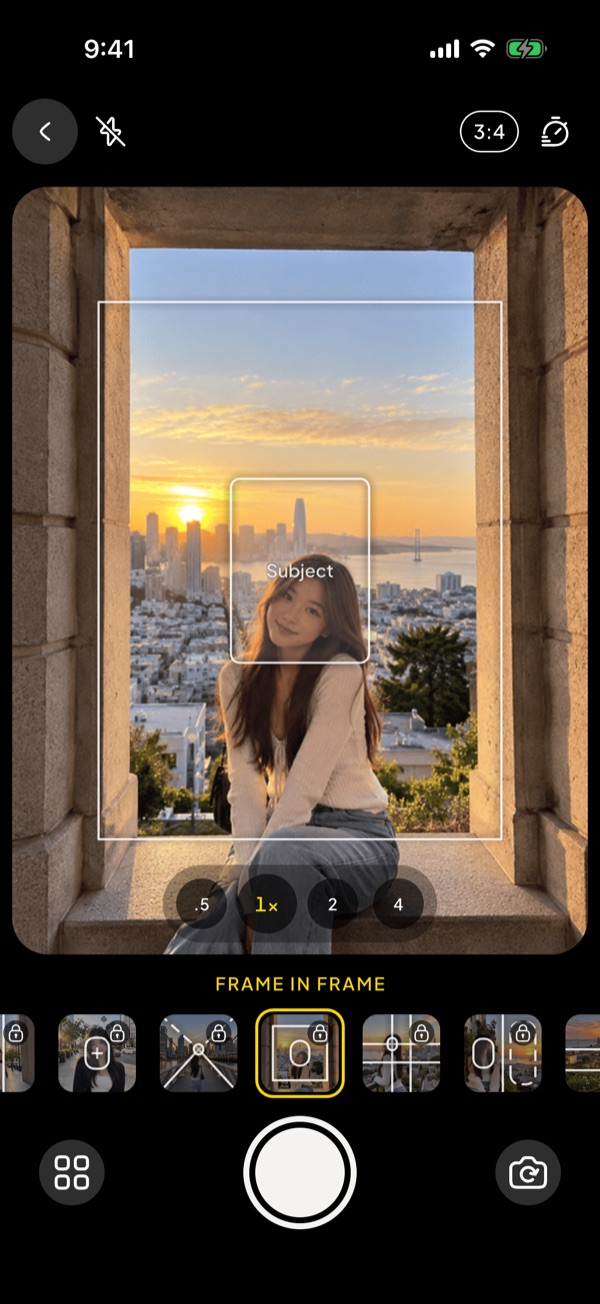
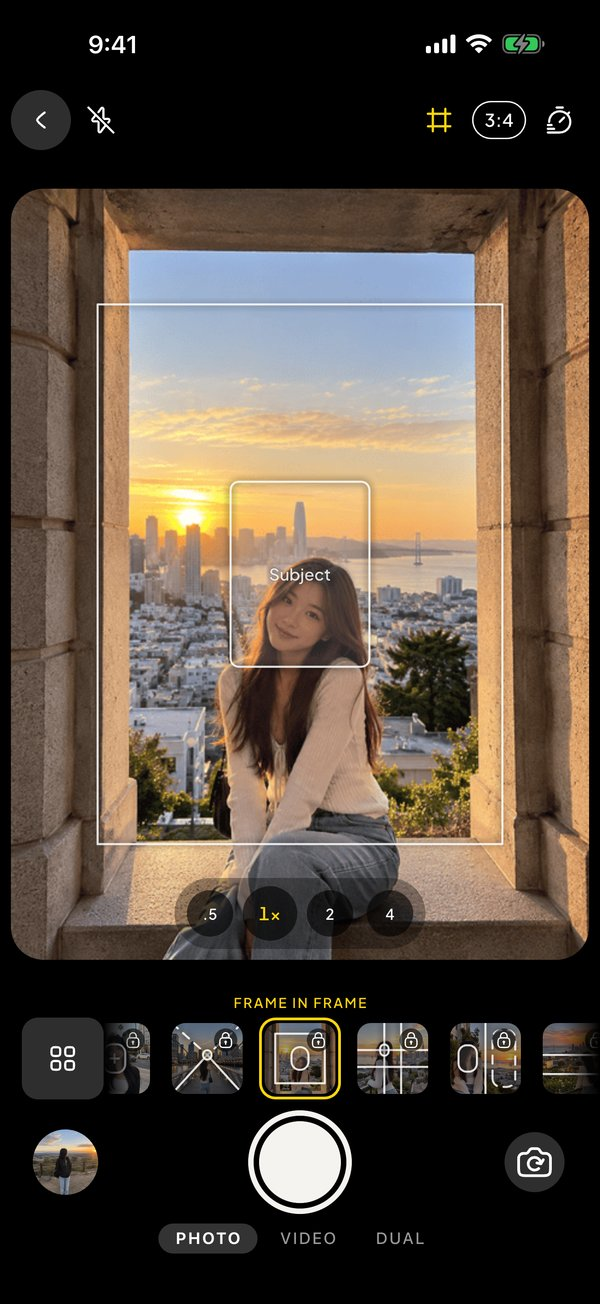
Update for 1.3: Dual, Concerts and Camping, video, library; new screenshots; privacy and terms

diff --git a/index.html b/index.html
@@ -6,8 +6,8 @@
 
   <!-- SEO. Replace https://www.beginnercam.com/ everywhere (see README.md). -->
   <title>Beginner Cam – Composition Camera: Take Better Photos Today</title>
-  <meta name="description" content="Beginner Cam is a free camera app for iPhone and Android that teaches composition. Pick what you shoot, follow a live guide like the rule of thirds, add a film-inspired look, and take photos you're proud of.">
-  <meta name="keywords" content="composition camera, rule of thirds app, photography for beginners, iPhone camera app, Android camera app, photo composition guide, golden ratio camera, better photos">
+  <meta name="description" content="Beginner Cam is a free camera app for iPhone and Android that teaches composition. Pick what you shoot, follow a live guide like the rule of thirds, add a film-inspired look, and film video or Dual with both cameras at once.">
+  <meta name="keywords" content="composition camera, rule of thirds app, photography for beginners, iPhone camera app, Android camera app, photo composition guide, golden ratio camera, better photos, dual camera video, concert photos">
   <link rel="canonical" href="https://www.beginnercam.com/">
   <meta name="robots" content="index, follow">
   <meta name="theme-color" content="#ffffff">
@@ -46,7 +46,7 @@
     "name": "Beginner Cam – Composition Camera",
     "operatingSystem": "Android 8.0 or later, iOS 16 or later",
     "applicationCategory": "PhotographyApplication",
-    "description": "A free camera app for Android and iPhone that teaches composition with live guides and film-inspired looks.",
+    "description": "A free camera app for Android and iPhone that teaches composition with live guides and film-inspired looks, with video and Dual (both cameras at once).",
     "url": "https://www.beginnercam.com/",
     "image": "https://www.beginnercam.com/assets/og-image.jpg",
     "downloadUrl": "https://play.google.com/store/apps/details?id=com.reach.beginnercamera",
@@ -59,11 +59,13 @@
     "@type": "FAQPage",
     "mainEntity": [
       { "@type": "Question", "name": "Is Beginner Cam free?",
-        "acceptedAnswer": { "@type": "Answer", "text": "Yes. Every subject comes with free guides and looks. You can also try every Pro guide and look for free; one payment unlocks saving and sharing those photos. There is no subscription." } },
+        "acceptedAnswer": { "@type": "Answer", "text": "Yes. Every subject comes with free guides and looks, and photo and video are free. You can try every Pro guide, look and Dual for free; one payment unlocks saving and sharing those shots and removes the small Beginner Cam mark from your photos. There is no subscription." } },
+      { "@type": "Question", "name": "Can I film video?",
+        "acceptedAnswer": { "@type": "Answer", "text": "Yes. Switch to Video and film with the same guides and looks, then trim, crop, change the look or mute the clip. Dual films with the back and front cameras at the same time, so you get the stage and your own face in one video or photo." } },
       { "@type": "Question", "name": "Do I need any photography experience?",
         "acceptedAnswer": { "@type": "Answer", "text": "No. Beginner Cam was made for people who are just starting. Pick what you are shooting, line your subject up with the guide, and press the shutter." } },
       { "@type": "Question", "name": "Does Beginner Cam upload my photos?",
-        "acceptedAnswer": { "@type": "Answer", "text": "No. There is no account and no upload. Your photos stay on your phone, and the guide lines are never saved into them." } },
+        "acceptedAnswer": { "@type": "Answer", "text": "No. There is no account and no upload. Your photos and videos stay on your phone, and the guide lines are never saved into them." } },
       { "@type": "Question", "name": "Which phones are supported?",
         "acceptedAnswer": { "@type": "Answer", "text": "Android phones running Android 8.0 or later, through Google Play, and iPhones running iOS 16 or later once the App Store version is out." } },
       { "@type": "Question", "name": "Is there an Android version?",
@@ -134,7 +136,7 @@
             </a>
           </div>
           <ul class="hero__facts reveal" aria-label="Highlights">
-            <li><strong>90</strong> example photos</li>
+            <li><strong>120</strong> example photos</li>
             <li><strong>30</strong> composition guides</li>
             <li><strong>20</strong> film-inspired looks</li>
           </ul>
@@ -170,10 +172,10 @@
         </header>
         <ol class="steps">
           <li class="step reveal">
-            <div class="phone phone--small"><img src="assets/screens/quiz.jpg" alt="Choosing what you love to shoot: people, food, scenery, city, pets, cafes" width="600" height="1304" loading="lazy"></div>
+            <div class="phone phone--small"><img src="assets/screens/quiz.jpg" alt="Choosing what you love to shoot" width="600" height="1304" loading="lazy"></div>
             <span class="step__num">1</span>
             <h3>Pick what you shoot</h3>
-            <p>People, food, scenery, city, pets or cafes. Each comes with its own 15 guides and example photos, easiest first.</p>
+            <p>People, food, scenery, city, pets, cafes, concerts or camping. Each comes with its own 15 guides and example photos, easiest first.</p>
           </li>
           <li class="step reveal">
             <div class="phone phone--small"><img src="assets/screens/camera.jpg" alt="The camera with a live composition guide" width="600" height="1304" loading="lazy"></div>
@@ -201,8 +203,8 @@
         <div class="features">
           <article class="feature reveal">
             <div class="feature__icon" aria-hidden="true"><svg viewBox="0 0 24 24"><rect x="3" y="4" width="18" height="16" rx="2"/><circle cx="8.5" cy="9.5" r="1.5"/><path d="M21 16l-5-5-9 9"/></svg></div>
-            <h3>90 example photos</h3>
-            <p>Every guide is shown on a real photo of what you shoot: people, food, scenery, city, pets or cafes. See the result before you take the shot.</p>
+            <h3>120 example photos</h3>
+            <p>Every guide is shown on a photo of what you shoot: people, food, scenery, city, pets, cafes, concerts or camping. See the result before you take the shot.</p>
           </article>
           <article class="feature reveal">
             <div class="feature__icon" aria-hidden="true"><svg viewBox="0 0 24 24"><path d="M8 3v18M16 3v18M3 8h18M3 16h18"/></svg></div>
@@ -222,7 +224,22 @@
           <article class="feature reveal">
             <div class="feature__icon" aria-hidden="true"><svg viewBox="0 0 24 24"><path d="M4 7h3l2-3h6l2 3h3v12H4z"/><circle cx="12" cy="13" r="3.5"/></svg></div>
             <h3>Feels like your phone's camera</h3>
-            <p>Lens buttons, tap to focus, drag for brightness, flash and timer, right where you expect them.</p>
+            <p>Lens buttons, tap to focus, drag for brightness, flash and timer, right where you expect them. Turn the phone sideways and the guide turns with it.</p>
+          </article>
+          <article class="feature reveal">
+            <div class="feature__icon" aria-hidden="true"><svg viewBox="0 0 24 24"><rect x="2.5" y="6" width="13" height="12" rx="2"/><path d="M15.5 10.5l6-3.5v10l-6-3.5"/></svg></div>
+            <h3>Video and Dual</h3>
+            <p>Film with the same guides and looks. Dual uses the back and front cameras at once: the stage and your face in one video or photo, in a small window or split screen.</p>
+          </article>
+          <article class="feature reveal">
+            <div class="feature__icon" aria-hidden="true"><svg viewBox="0 0 24 24"><rect x="3" y="3" width="7" height="7" rx="1.5"/><rect x="14" y="3" width="7" height="7" rx="1.5"/><rect x="3" y="14" width="7" height="7" rx="1.5"/><rect x="14" y="14" width="7" height="7" rx="1.5"/></svg></div>
+            <h3>Your own photo library</h3>
+            <p>Every shot is kept in the app, grouped by day. Change the look, crop, rotate or straighten anytime; your original never changes.</p>
+          </article>
+          <article class="feature reveal">
+            <div class="feature__icon" aria-hidden="true"><svg viewBox="0 0 24 24"><path d="M13 2L4 14h7l-1 8 9-12h-7z"/></svg></div>
+            <h3>Made for quick shots</h3>
+            <p>Hide the guide lines with one tap, open a QR code's link, or start the camera from your iPhone's Lock Screen.</p>
           </article>
           <article class="feature reveal">
             <div class="feature__icon" aria-hidden="true"><svg viewBox="0 0 24 24"><path d="M12 3l7 3v5c0 5-3.5 8.5-7 10-3.5-1.5-7-5-7-10V6z"/><path d="M9 12l2 2 4-4"/></svg></div>
@@ -243,7 +260,7 @@
       </div>
       <div class="gallery" tabindex="0" aria-label="App screenshots, scroll sideways">
         <figure class="gallery__item">
-          <div class="phone"><img src="assets/screens/home.jpg" alt="Home screen with six subjects" width="600" height="1304" loading="lazy"></div>
+          <div class="phone"><img src="assets/screens/home.jpg" alt="Home screen with the subjects to choose from" width="600" height="1304" loading="lazy"></div>
           <figcaption>Tell it what you shoot</figcaption>
         </figure>
         <figure class="gallery__item">
@@ -257,6 +274,10 @@
         <figure class="gallery__item">
           <div class="phone"><img src="assets/screens/result.jpg" alt="Before and after with your look" width="600" height="1304" loading="lazy"></div>
           <figcaption>See the difference</figcaption>
+        </figure>
+        <figure class="gallery__item">
+          <div class="phone"><img src="assets/screens/dual.jpg" alt="Dual at a concert: the stage fills the screen, with a small window of the person filming" width="600" height="1304" loading="lazy"></div>
+          <figcaption>You and the moment</figcaption>
         </figure>
       </div>
       <div class="container gallery__nav">
@@ -275,7 +296,11 @@
         <div class="faq">
           <details class="reveal">
             <summary>Is Beginner Cam free?</summary>
-            <p>Yes. Every subject comes with free guides and looks. You can also try every Pro guide and look for free; one payment unlocks saving and sharing those photos. There is no subscription.</p>
+            <p>Yes. Every subject comes with free guides and looks, and photo and video are free. You can try every Pro guide, look and Dual for free; one payment unlocks saving and sharing those shots and removes the small Beginner Cam mark from your photos. There is no subscription.</p>
+          </details>
+          <details class="reveal">
+            <summary>Can I film video?</summary>
+            <p>Yes. Switch to Video and film with the same guides and looks, then trim, crop, change the look or mute the clip. Dual films with the back and front cameras at the same time, so you get the stage and your own face in one video or photo.</p>
           </details>
           <details class="reveal">
             <summary>Do I need any photography experience?</summary>
@@ -283,7 +308,7 @@
           </details>
           <details class="reveal">
             <summary>Does Beginner Cam upload my photos?</summary>
-            <p>No. There is no account and no upload. Your photos stay on your phone, and the guide lines are never saved into them.</p>
+            <p>No. There is no account and no upload. Your photos and videos stay on your phone, and the guide lines are never saved into them.</p>
           </details>
           <details class="reveal">
             <summary>Which phones are supported?</summary>

diff --git a/privacy.html b/privacy.html
@@ -23,7 +23,7 @@
   </header>
   <main class="legal container container--narrow">
     <h1>Privacy Policy</h1>
-    <p class="updated">Effective October 31, 2026</p>
+    <p class="updated">Effective November 5, 2026</p>
 
     <p>This policy explains how the Beginner Cam app for iPhone and Android ("Beginner Cam", "the app") and this website handle information. Beginner Cam is developed and published by Sopheareach Te ("we", "us"), who is responsible for your information under this policy.</p>
 
@@ -34,7 +34,7 @@
       <li>We do not ask for your name, email address, phone number or any account.</li>
       <li>We do not upload, view or store your photos on any server.</li>
       <li>We do not use advertising identifiers (Apple's IDFA or Google's Advertising ID), track you across other apps or websites, or show ads.</li>
-      <li>We do not collect your location. Location data is removed from photos the app saves.</li>
+      <li>We do not collect your location. Location data is removed from photos the app saves, and saved videos carry no location.</li>
       <li>We do not collect contacts, browsing history, health, financial or other sensitive information.</li>
       <li>The app does not send usage analytics or crash reports to us or to any analytics service.</li>
     </ul>
@@ -42,15 +42,16 @@
     <h2>Permissions</h2>
     <p>The app asks for each permission only when you first use the feature that needs it. You can say no, or change your mind later in your phone's settings.</p>
     <ul>
-      <li><strong>Camera:</strong> used only to show the live preview and take photos inside the app.</li>
-      <li><strong>Photos / media:</strong> used only to save your photos to your photo library or gallery. On iPhone the app asks for "add only" access and cannot read or browse your existing photos. On Android it saves new photos to your gallery and does not read your existing ones.</li>
-      <li><strong>Notifications (optional):</strong> asked only after you save your first photo. Reminders are scheduled on your phone; nothing is sent from a server. You can turn them off in the app's Settings or in your phone's settings.</li>
+      <li><strong>Camera:</strong> used only to show the live preview and take photos and videos inside the app.</li>
+      <li><strong>Microphone:</strong> used only to record sound with your videos, including Dual. You can say no and still record videos without sound.</li>
+      <li><strong>Photos / media:</strong> used only to save your photos to your photo library or gallery. On iPhone the app asks for "add only" access and cannot read or browse your existing photos. On Android it saves new photos and videos to your gallery and does not read your existing ones. If you add photos from your library (a Pro feature), you choose them in the system's photo picker, and the app receives only the ones you pick.</li>
+      <li><strong>Notifications (optional):</strong> asked once after the short demo when you first open the app, and, if you choose Not now, once more after you save your first photo. Reminders are scheduled on your phone; nothing is sent from a server. You can turn them off in the app's Settings or in your phone's settings.</li>
     </ul>
 
     <h2>Information stored on your phone</h2>
     <ul>
       <li>Your onboarding answers (what you shoot, your vibe, where you post, your level) and your settings, such as language, appearance and notification preferences.</li>
-      <li>Photos waiting in the Held tray, kept inside the app until you save or delete them, or delete the app.</li>
+      <li>The photos and videos you take, with your edits (look, crop, rotation, trim), kept in the app's own library until you delete them or delete the app.</li>
       <li>The start times of the welcome and limited-time offers, so an offer is not restarted. These are dates and times only.</li>
     </ul>
     <p>This information stays on your device and is never sent to us. To keep offers from restarting after a reinstall, the offer start times are also kept in your iPhone's Keychain and your own iCloud key-value storage on iPhone, or in your Google Android backup on Android if you have backup turned on. They contain no personal information. iCloud is handled under <a href="https://www.apple.com/legal/privacy/" rel="noopener">Apple's Privacy Policy</a> and Android backup under <a href="https://policies.google.com/privacy" rel="noopener">Google's Privacy Policy</a>.</p>
@@ -66,7 +67,7 @@
     <p>It does not receive your name, email or photos. The App Store or Google Play may also tell the app when you first installed it, so that new and returning users see the right offer. This stays on your phone.</p>
 
     <h2>How we use information</h2>
-    <p>We use the information above only to run the app: to show the guides and looks that fit what you shoot, remember your settings, keep held photos safe, schedule reminders you have allowed, show the right offer, and verify and restore your purchase. We do not use it for advertising, profiling or selling, and we do not combine it with information from other sources.</p>
+    <p>We use the information above only to run the app: to show the guides and looks that fit what you shoot, remember your settings, keep your photos and videos in the app's library, schedule reminders you have allowed, show the right offer, and verify and restore your purchase. We do not use it for advertising, profiling or selling, and we do not combine it with information from other sources.</p>
 
     <h2>Who we share information with</h2>
     <ul>

diff --git a/support.html b/support.html
@@ -46,11 +46,11 @@
       </details>
       <details>
         <summary>Is Pro a subscription?</summary>
-        <p>No. Pro is a one-time payment that unlocks all Pro guides and looks for good. It never renews, so there is nothing to cancel.</p>
+        <p>No. Pro is a one-time payment that unlocks all Pro guides and looks, saving and sharing Dual videos and photos, and adding photos from your library, for good. It also removes the small Beginner Cam mark from your photos and videos. It never renews, so there is nothing to cancel.</p>
       </details>
       <details>
         <summary>Where did my photo go? It wasn't saved.</summary>
-        <p>Photos made with a Pro guide or look are kept in the app's Held tray until you unlock Pro, so they are never lost. Once you unlock Pro, you can save or share them from there.</p>
+        <p>Every photo and video you take goes straight into the app's own library (the Photos button on Home, or the thumbnail beside the shutter), so nothing is lost. Shots made with a Pro guide or look, or with Dual, stay there until you unlock Pro; then you can save or share them.</p>
       </details>
       <details>
         <summary>How do I get a refund?</summary>
@@ -65,8 +65,20 @@
         <p>Beginner Cam needs camera access to show the live preview. On iPhone, open Settings &gt; Beginner Cam and turn on Camera. On Android, open Settings &gt; Apps &gt; Beginner Cam &gt; Permissions and allow Camera. Then reopen the app.</p>
       </details>
       <details>
+        <summary>Video has no sound</summary>
+        <p>Video and Dual need microphone access to record sound. On iPhone, open Settings &gt; Beginner Cam and turn on Microphone. On Android, open Settings &gt; Apps &gt; Beginner Cam &gt; Permissions and allow Microphone.</p>
+      </details>
+      <details>
+        <summary>I can't find Dual</summary>
+        <p>Dual needs a phone that can run the back and front cameras at the same time: iPhone XS or later, and many recent Android phones. On other phones the camera shows Photo and Video only. If the phone gets too hot, a long Dual clip stops and saves itself.</p>
+      </details>
+      <details>
+        <summary>What is the small mark on my photos?</summary>
+        <p>The free version adds a small Beginner Cam mark in the corner of saved and shared photos and videos. Pro removes it everywhere, including shots you already took. Your original is never changed.</p>
+      </details>
+      <details>
         <summary>Photos aren't saving to my library</summary>
-        <p>If the photo used a Pro guide or look, it is waiting in the Held tray. Otherwise, on iPhone open Settings &gt; Beginner Cam &gt; Photos and choose "Add Photos Only". On Android, check that your phone has free storage space.</p>
+        <p>If the photo used a Pro guide or look, or Dual, it is waiting in the app's own library until you unlock Pro. Otherwise, on iPhone open Settings &gt; Beginner Cam &gt; Photos and choose "Add Photos Only". On Android, check that your phone has free storage space.</p>
       </details>
       <details>
         <summary>Will the guide lines show up in my photo?</summary>

diff --git a/terms.html b/terms.html
@@ -23,7 +23,7 @@
   </header>
   <main class="legal container container--narrow">
     <h1>Terms of Use</h1>
-    <p class="updated">Effective October 31, 2026</p>
+    <p class="updated">Effective November 5, 2026</p>
 
     <p>These terms apply to your use of the Beginner Cam app for iPhone and Android ("Beginner Cam", "the app"), developed and published by Sopheareach Te ("we", "us"). By downloading or using the app, you agree to them. If you do not agree, please do not use the app.</p>
 
@@ -35,13 +35,14 @@
     </ul>
 
     <h2>Free features</h2>
-    <p>Beginner Cam is free to download. Every subject includes free composition guides and looks that you can use, save and share without paying.</p>
+    <p>Beginner Cam is free to download. Every subject includes free composition guides and looks that you can use, save and share without paying, in photo and video.</p>
 
-    <h2>Pro guides and looks</h2>
+    <h2>Pro features</h2>
     <ul>
-      <li>You can shoot with every Pro guide and look for free.</li>
-      <li>Saving or sharing a photo made with a Pro guide or look requires the in-app purchase. Until then, the photo is kept in the app's Held tray so it is not lost.</li>
-      <li>The purchase is a one-time payment that unlocks all Pro guides and looks for good. It is not a subscription and does not renew.</li>
+      <li>You can shoot with every Pro guide and look, and record with Dual, for free.</li>
+      <li>Saving or sharing a photo or video made with a Pro guide or look, or with Dual, and adding photos from your library require the in-app purchase. Every shot is kept in the app's own library from the moment you take it, so nothing is lost while you decide.</li>
+      <li>In the free version, saved and shared photos and videos carry a small Beginner Cam mark. The purchase removes it.</li>
+      <li>The purchase is a one-time payment that unlocks all Pro features for good. It is not a subscription and does not renew.</li>
     </ul>
 
     <h2>Purchases, offers and refunds</h2>
